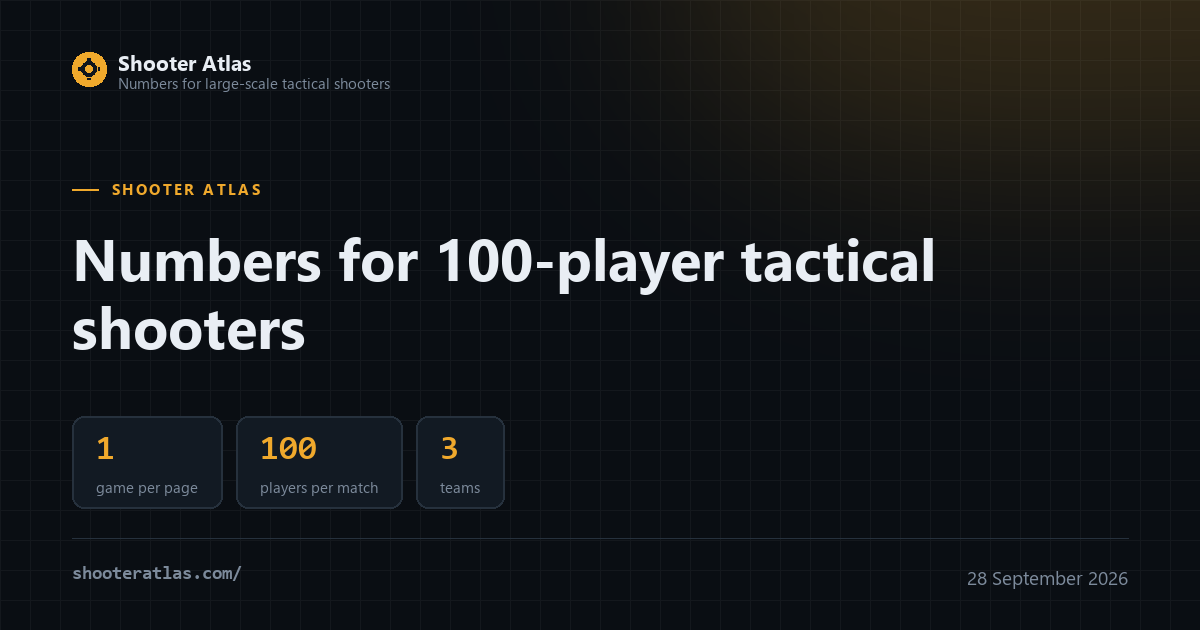
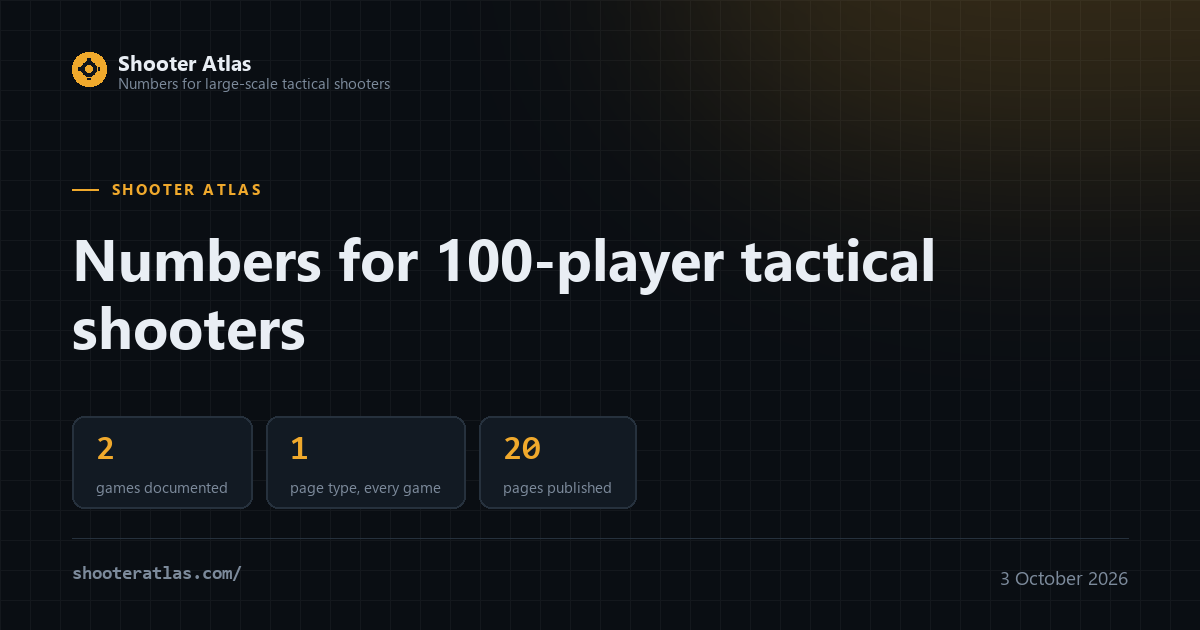
Home page: every sentence has to hold for both games
Step 10. The home page carried figures that are only true of one game in
site-level slots, and one figure that goes stale every time a page is
added.

* the description, the page-table lead-in, the "What this site is" lead,
  the "Who it is for" example and the "What the first page will do"
  section now either state a site-level fact or name the game they are
  describing
* the at-a-glance cells lose "100 players per match" and "3 factions, one
  objective" and gain "1 page type, every game" and "2 games, one page
  type each"; the version stamp moves from v2026.09 to v2026.10
* "pages published" is counted from the pages array at build time, so it
  updates itself: content pages are everything a reader can open except
  the home page, About, Privacy and Contact. 20 today.
* the home card is redrawn with the same three site-level figures, and its
  alt text and caption follow it
* the data-foot line now says every reading carries the minute it was taken

Checked: every sentence of the home page printed and read against the
rule, and the only sentences naming a game are the ones that name it on
purpose. Six widths 1440 down to 320: page overflow 0.

diff --git a/tools/make-page-images.py b/tools/make-page-images.py
@@ -203,8 +203,8 @@ def build(name, eyebrow, headline, stats, path, date, theme):
 PAGES = [
     ("home", "Shooter Atlas",
      "Numbers for 100-player tactical shooters",
-     [("1", "game per page"), ("100", "players per match"), ("3", "teams")], "/",
-     "28 September 2026"),
+     [("2", "games documented"), ("1", "page type, every game"), ("20", "pages published")], "/",
+     "3 October 2026"),
     ("wardogs", "WARDOGS",
      "Scoring, prices and platform support",
      [("$10,000", "starting balance"), ("100", "players per match"), ("3", "factions")], "/wardogs",
@@ -265,6 +265,10 @@ PAGES = [
      "10,302 on Steam, 38,573 at the record",
      [("10,302", "accounts with it open"), ("38,573", "all-time peak"), ("26.7%", "of the record, calculated")],
      "/squad-player-count", "3 October 2026"),
+    ("foxhole-player-count", "FOXHOLE · Player count",
+     "1,774 on Steam, 17,451 at the record",
+     [("1,774", "accounts with it open"), ("17,451", "all-time peak"), ("10.2%", "of the record, calculated")],
+     "/foxhole-player-count", "3 October 2026"),
 ]
 
 for row in PAGES:
